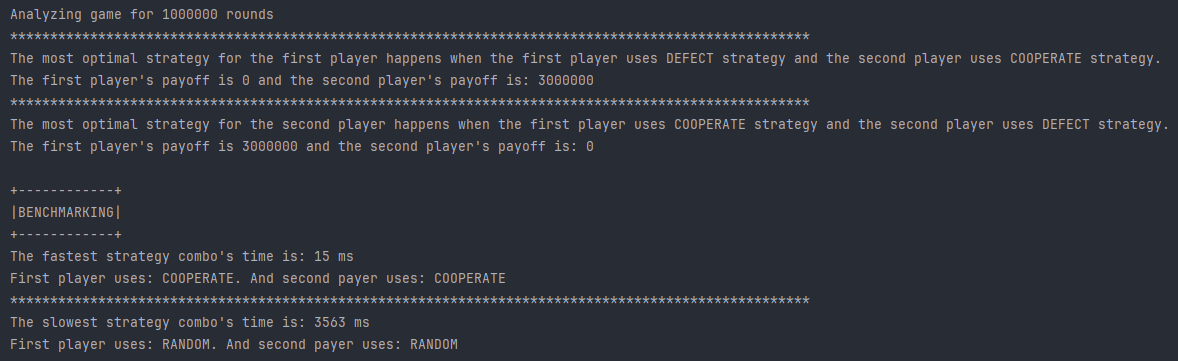
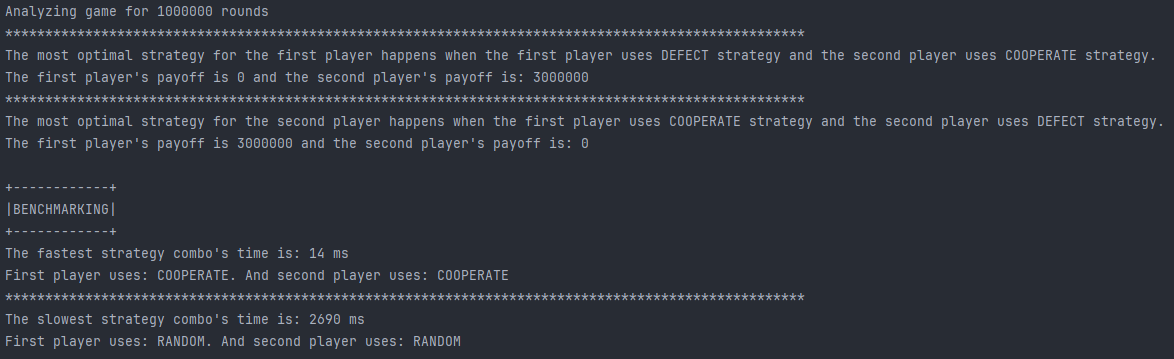
Minor fix

Changed region(s): [[0.0, 0.0, 1.0, 0.429], [0.0, 0.6435, 0.7053, 0.9805], [0.0, 0.5209, 0.1227, 0.6128]]

diff --git a/src/main/java/org/example/dilemma/DilemmaApplication.java b/src/main/java/org/example/dilemma/DilemmaApplication.java
@@ -45,11 +45,11 @@ public class DilemmaApplication {
         System.out.println("|BENCHMARKING|");
         System.out.println("+------------+");
         System.out.printf("The fastest strategy combo's time is: %s ms%n", statistics.bestPerformance().milliseconds());
-        System.out.printf("First player uses: %s. And second payer uses: %s%n", statistics.bestPerformance().firstStrategy(), statistics.bestPerformance().secondStrategy());
+        System.out.printf("First player uses: %s. And second player uses: %s%n", statistics.bestPerformance().firstStrategy(), statistics.bestPerformance().secondStrategy());
 
         System.out.println(splitter);
 
         System.out.printf("The slowest strategy combo's time is: %s ms%n", statistics.worstPerformance().milliseconds());
-        System.out.printf("First player uses: %s. And second payer uses: %s%n", statistics.worstPerformance().firstStrategy(), statistics.worstPerformance().secondStrategy());
+        System.out.printf("First player uses: %s. And second player uses: %s%n", statistics.worstPerformance().firstStrategy(), statistics.worstPerformance().secondStrategy());
     }
 }

diff --git a/README.md b/README.md
@@ -55,4 +55,4 @@ Based on the output example provided above, the fastest strategies pair is when 
 But it's not the real truth. If you try to run the application multiple times, you'll see that the faster strategies pair might be different on every execution, but it never includes **RANDOM** strategy.
 The reason for that is that **TIP_FOR_TAT**, **COOPERATE**, **DEFECT** and **GRIM_TRIGGER** strategies does not consume much CPU resources, and it takes less CPU resources to handle one of those strategies.
 On the other hand, **RANDOM** strategy requires generating new boolean value on every move that consumes more memory and CPU resources.
-We can also see that **RANDOM** & **RANDOM** strategy pair is almost 240 times slower that the fastest strategy pair (**COOPERATE** & **COOPERATE**);
+We can also see that **RANDOM** & **RANDOM** strategy pair is almost 200 times slower that the fastest strategy pair (**COOPERATE** & **COOPERATE**);
